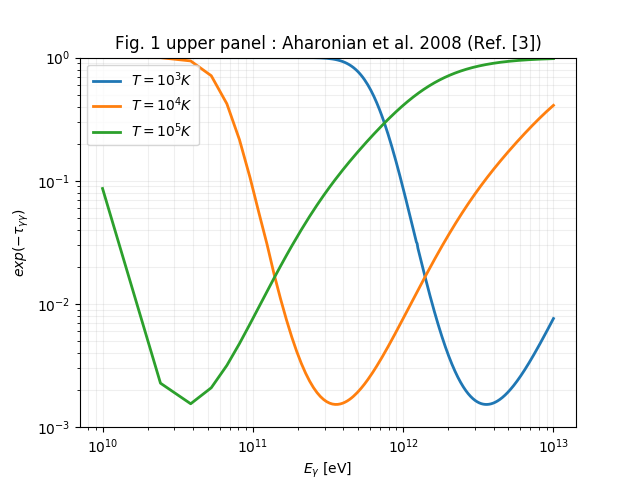
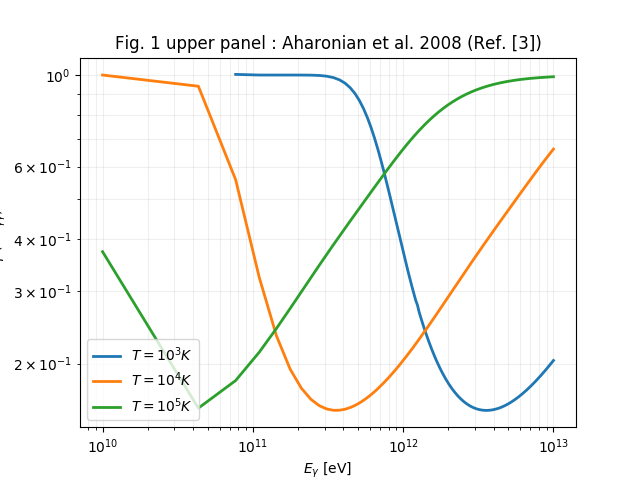
small corrections

diff --git a/optical_depth/calc_opt_depth.py b/optical_depth/calc_opt_depth.py
@@ -227,7 +227,7 @@ if __name__ == '__main__':
     ################## Test for Class CalcOptDepthBB #############
     Tarr = [1e3, 1e4, 1e5] * u.K
     # Norm choosen to reproduce Fig. 1 upper panel of ref. [3]
-    norm = [1.5e24, 1.5e21, 1.5e18] * u.Unit('cm3 eV')
+    norm = [1.5e24, 1.5e21, 1.5e18] * u.Unit('cm-3 eV-3')
     s = 1 * u.kpc
 
     Emin = 1e10 * u.eV
@@ -235,18 +235,14 @@ if __name__ == '__main__':
     Earr = np.linspace(Emin, Emax, 300)
 
     tau_dict = {}
-    Tau = {}
 
     for T, norm in zip(Tarr, norm):
         tau_dict[T] = []
-        Tau[T] = []
         calcdepth = CalcOptDepthBB(s, T, norm)
         for E in Earr:
             E = E.to('eV') / _mec2_u
             tau = calcdepth.calc_opt_depth(E)
-            Tau[T].append(tau)
             tau_dict[T].append((1 - np.exp(-tau))/tau)
-        print(Tau[T])
     fig1 = plt.figure()
     ax = fig1.add_subplot(1, 1, 1)
     xticks = Earr.value
@@ -267,7 +263,7 @@ if __name__ == '__main__':
     taupl = CalcOptDepthPWL()
     taupl.plot_phi_bar()
 
-    En = np.logspace(5, 12, 1000) * u.Unit('eV')
+    En = np.logspace(9, 16, 50) * u.Unit('eV')
 
     fig2 = plt.figure()
 
